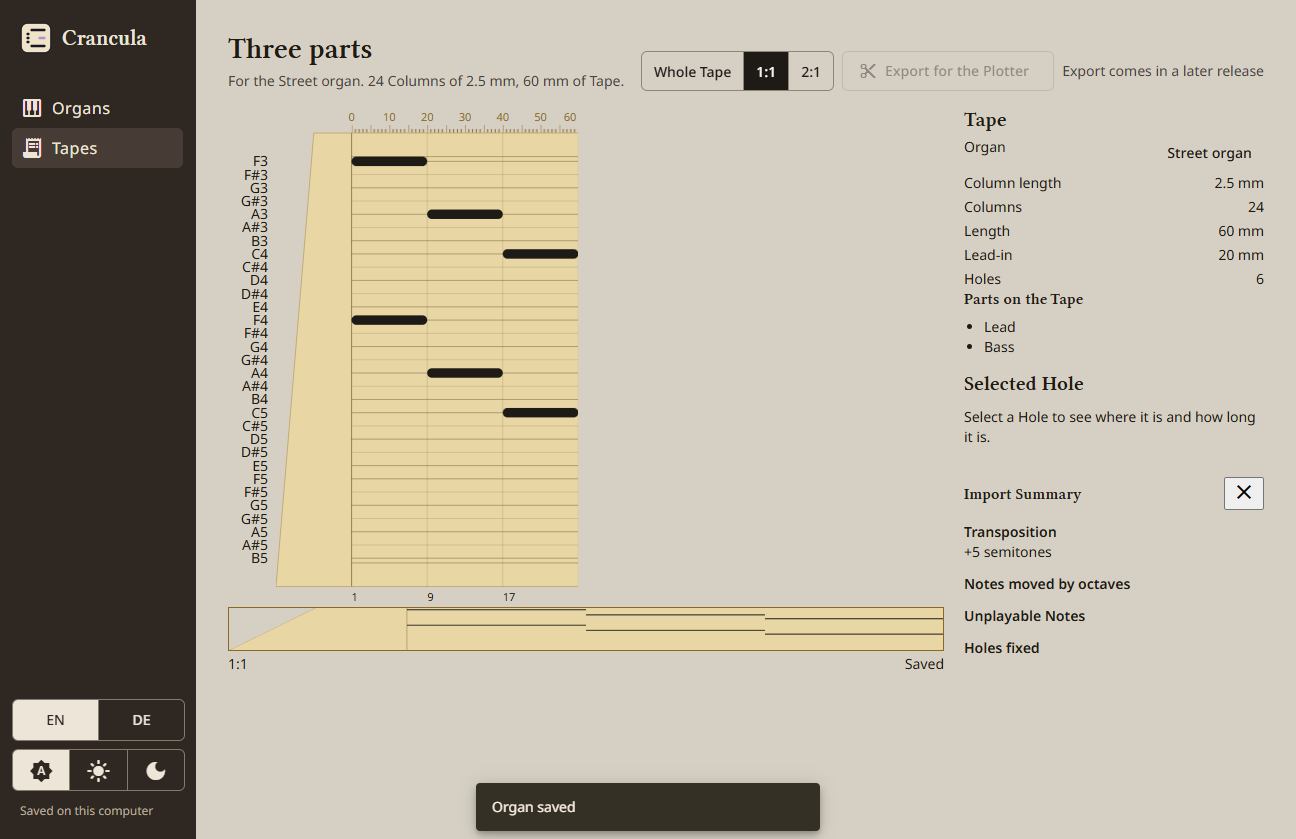
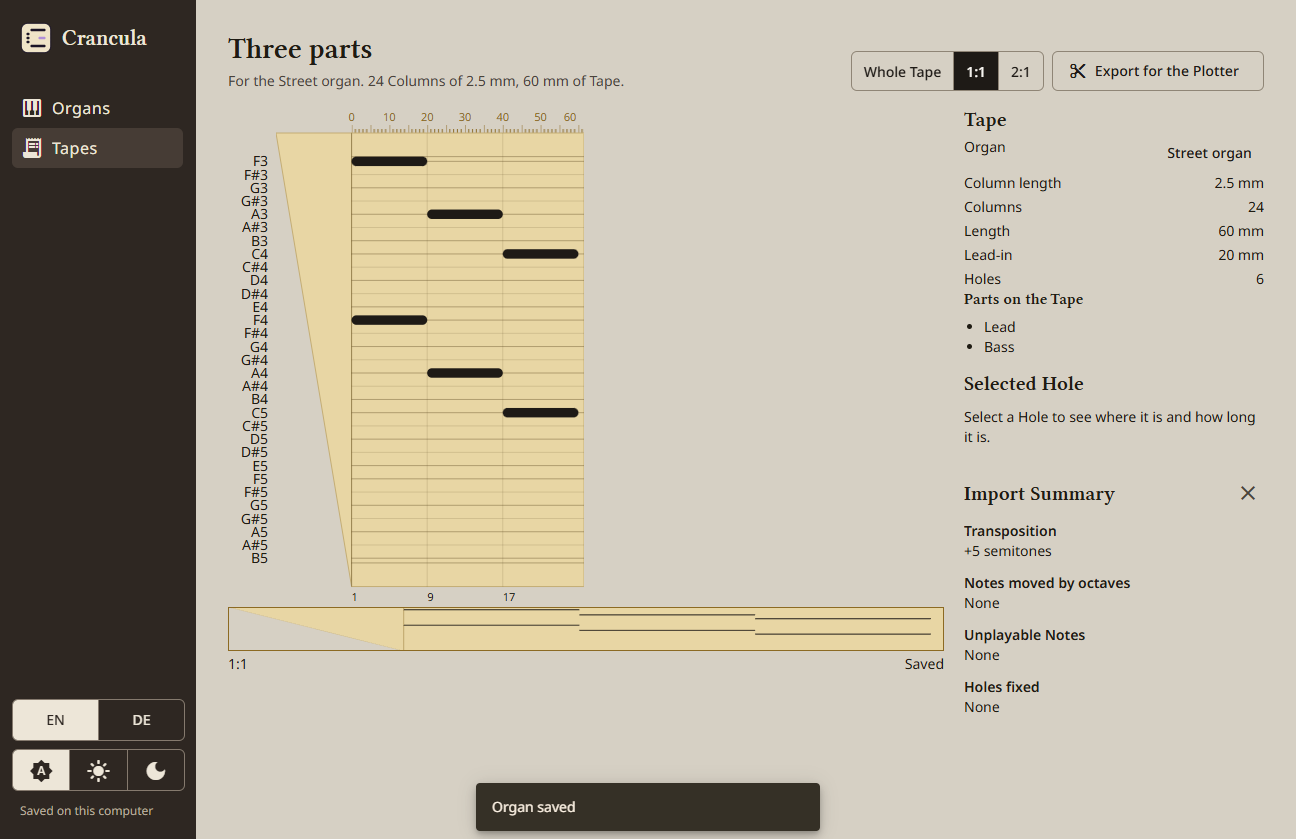
docs(003): ux-review after the export (39/50); findings become T053–T056

diff --git a/documentation/design/screens/current/ux-review.md b/documentation/design/screens/current/ux-review.md
@@ -6,6 +6,8 @@ Previous: 38/50 (after #66), 36/50 (after #65), 36/50 (after #64), 33/50 (after 
 |----|----|----|----|----|----|----|----|----|-----|-------|
 | 4  | 5  | 4  | 4  | 4  | 3  | 3  | 3  | 4  | 5   | 39/50 |
 
+After 003 US1-US3 (Tape view with the Lead-in diagonal, the Lead-in row in Tape details, enabled "Export for the Plotter"; re-run 2026-10-17): score unchanged at 39/50. The diagonal Lead-in reads well in 08, 14 and 15 and Lead-in 20 mm appears in the details; the Plotter export is a clear secondary-style head button. No screenshot exists for the export problems dialog, so it is not scored. New findings 11 to 13 below.
+
 After #69 (import screen in two sheets: file chip, Organ range, Parts list, Transposition stepper with a proposal sentence and Use proposal, Fit as a result card with expandable Note lists and an Unplayable warning; fits one screen). H2 gains one: the import reads top to bottom and the Fit warns and offers the way back. New screens: 07b (Unplayable warning, Notes expanded) and 07c (German at 1024x700). Capture quirks seen: in 07 the Column length label overlaps its value mid-animation; the Organ saved snackbar lingers on 07/07b/07c (finding 4).
 
 After #66 (Organ and Tape lists as ledgers: Tape Bed miniature and facts line, Tapes count link, row menu, next-step strip, Organ filter chip, guiding empty states, both lists fit German at 1024x700). H2 gains one: the empty states give a first step (02, 06, 06b) and the Organ list says what comes next (05). H4 gains one: both ledgers share one structure, and the filter and "Show all Tapes" are consistent. H7 stays: names and Organ cells are default-blue underlined links. New screens: 06b (Tape list without an Organ), 09b (filtered by Organ), 16 and 17 (German at 1024x700). The capture script's selected-Hole check (08b) had a stale selector and is fixed.
@@ -21,6 +23,9 @@ After #66 (Organ and Tape lists as ledgers: Tape Bed miniature and facts line, T
 8. **[sev 2] H4 - 03, 04, 13** - Floating labels of the MIDI note fields are cut and the Pipe rack header runs together in German (10). Tag: new (follow-up to #64).
 9. **[sev 2] H8 - 12, 13, 14** - The compact rail has icon-only nav and stacked toggles without visible labels; disabled Save and the "Saved on this computer" note are low contrast. Tag: new.
 10. **[sev 1] H3 - 13** - At 1024x700 the second Pipe rack column is clipped at the right edge. Tag: new.
+11. **[sev 2] H6 - 08, 14, 15** - The drawing shows no end cut: the Tape ends in a plain straight edge after Column 24, and the Lead-in diagonal has no label in the drawing. Fix: draw the end cut (and a "Lead-in 20 mm" label) so the drawing matches what the Plotter cuts. Tag: new (003).
+12. **[sev 2] H2 - screens script** - No screenshot of the export problems dialog (nor of a Tape with export problems), so it cannot be reviewed. Fix: add the dialog to `ux:screens` as 08c. Tag: new (003).
+13. **[sev 2] H7 - 15** - In the German UI the Organ name "Street organ" and the part names are English sample data, fine, but the "Export for the Plotter" button wraps at 1024 px (14) next to "Tape details". Fix: shorten or icon-plus-tooltip below 1180 px. Tag: new (003, relates to finding 2).
 
 ## Strengths
 - The editor fits one screen: Tape Bed (fields in a two-column grid, fit sentence, drawing) left, scrolling Pipe rack right, action bar always in view (H3).

diff --git a/specs/003-punch-a-tape/tasks.md b/specs/003-punch-a-tape/tasks.md
@@ -506,6 +506,22 @@ check that no text is shown untranslated.
   any other issue touched. Squash-merge it with `gh pr merge --squash --delete-branch` once CI
   (e2e on Linux, Windows and macOS, ADR 13) is green.
 
+### Findings from T047 (ux-review 39/50, findings 11–13 in `documentation/design/screens/current/ux-review.md`)
+
+- [ ] T053 [P] Extend `src/app/features/tape/tape-view/tape-view.component.spec.ts` (and
+  `e2e/tape-layout.spec.ts` if the layout is only provable there): below 1180 px "Export for the
+  Plotter" is an icon button with the scissors icon, a tooltip and an `aria-label` of
+  `TAPE.VIEW.EXPORT`; the page head's actions stay on one line at 1024×700 and no zoom button is
+  clipped (finding 13).
+- [ ] T054 Implement T053 in the Tape view (same breakpoint as the rail) until it is green.
+- [ ] T055 Add a screenshot `08c-tape-view-export-problems.png` of the export problems dialog to
+  `npm run ux:screens` (a Tape whose Organ's hole diameter was raised after the Tape was made)
+  (finding 12).
+- [ ] T056 Re-run `npm run ux:screens` and the `ux-review` skill on 08c and 14; record the score.
+
+Not taken into the slice: a "Lead-in 20 mm" label in the drawing (finding 11, new scope). The
+straight end edge is the end cut by spec, so that part of finding 11 is not a defect.
+
 ---
 
 ## Dependencies & Execution Order
